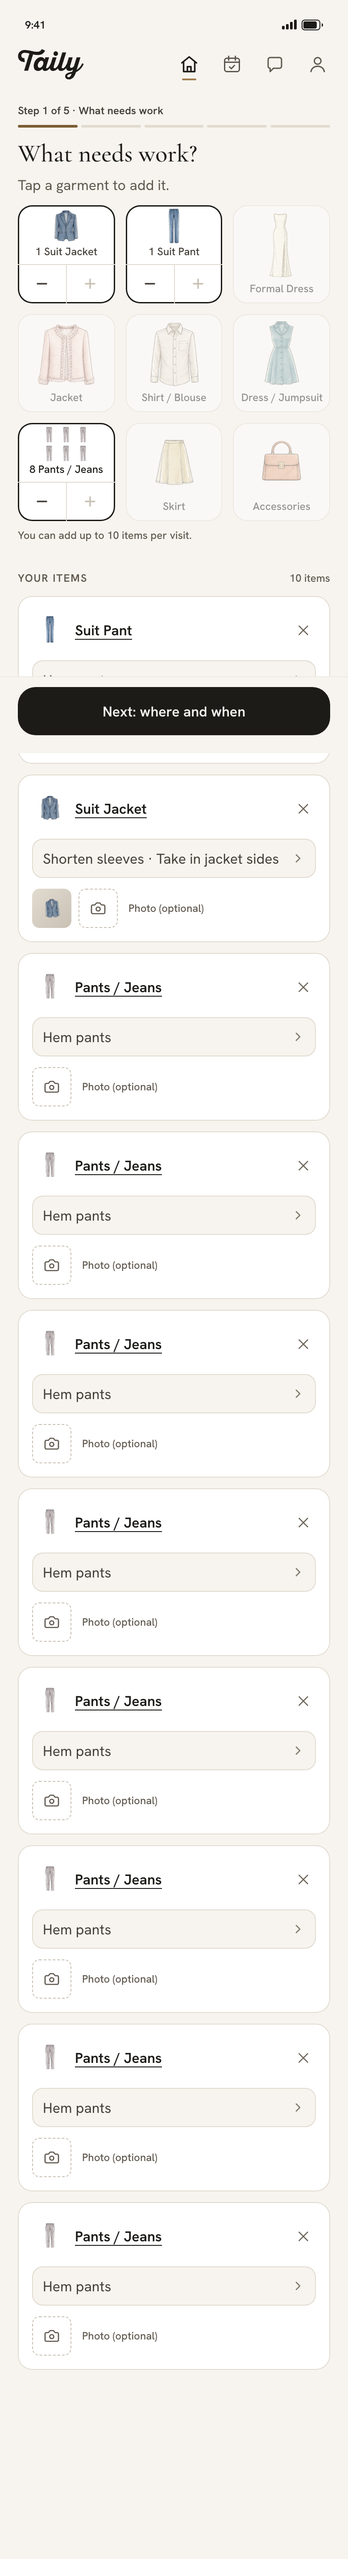
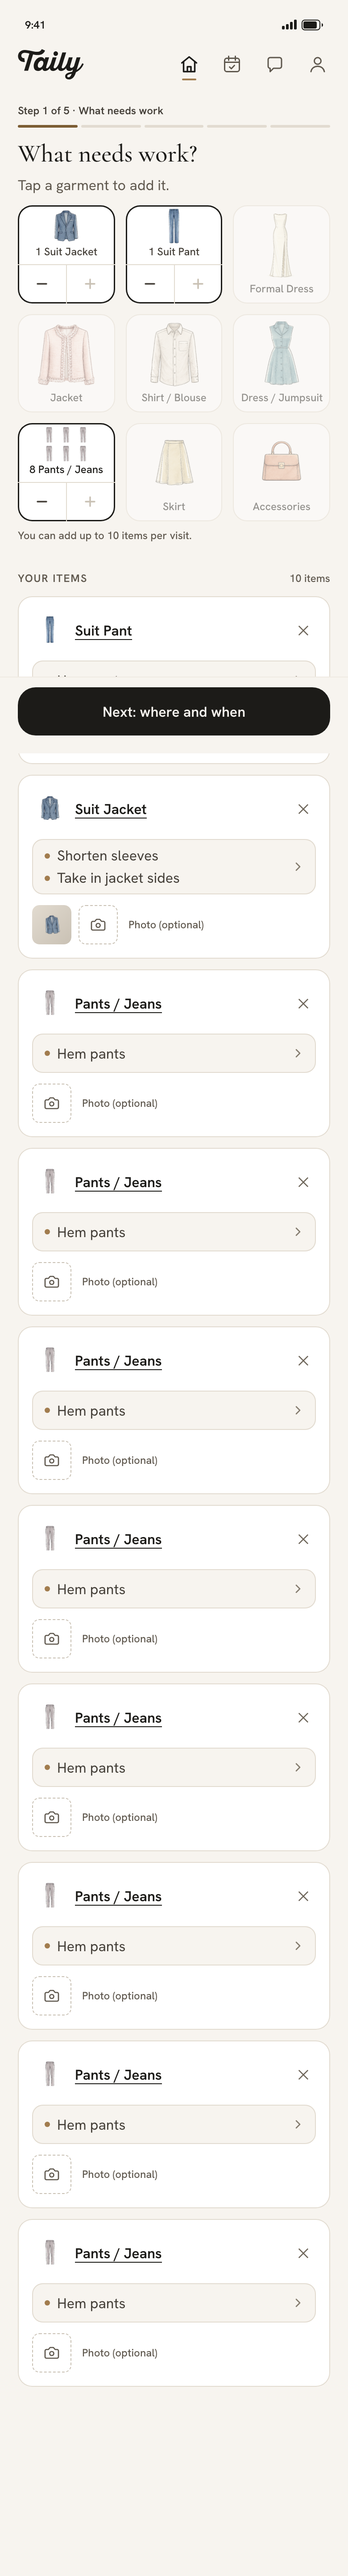
v5 K-26: Home item cards list every service — one per line, two columns from the fifth
c-job's services field shows each service after the K-25 cognac bullet (no "+n more"); 5+ services
flow into a two-column grid at the same 16 px (CSS :has, same markup). New flow c-job--five-services.
Visual baselines accepted: c-job, c-job--max, c-job--no-service, c-job--services, c-job--photo, sys-offline.
npm run check: ALL PASS.

diff --git a/js/screens/c-job.js b/js/screens/c-job.js
@@ -22,10 +22,11 @@ const MAX_PHOTOS = 3;   // per garment (D-42)
 /* ---------- typed / transient UI: which garments show the "choose a service" error ---------- */
 const ui = () => (state.ui[ID] ??= { errors: {} });
 
-/* two services: "A · B"; three or more: "A, B +n more" (M7 B: no long "·" chain) */
-const serviceText = (g) => {
+/* K-26 (H2): every service, one per line after a K-25 cognac bullet; from the 5th service the list flows into two columns
+   (CSS :has, same markup at every count). Spans, not a <ul>, because the list sits inside the field's <button>; sr-only commas read it as a list. */
+const serviceList = (g) => {
   const labels = g.services.map((id) => SERVICES[id]?.label).filter(Boolean);
-  return labels.length > 2 ? `${labels[0]}, ${labels[1]} +${labels.length - 2} more` : labels.join(' · ');
+  return `<span class="sr-only">Services: </span><span class="job-item__svcs">${labels.map((l, i) => `<span class="job-item__svc">${esc(l)}${i < labels.length - 1 ? '<span class="sr-only">, </span>' : ''}</span>`).join('')}</span>`;
 };
 
 function itemCard(g) {
@@ -39,7 +40,7 @@ function itemCard(g) {
   <div class="job-item__head">${garmentHead({ type: g.type, trailing: `<button type="button" class="job-item__remove" data-act="remove-garment" data-id="${g.id}" aria-label="Remove ${esc(g.type)}"><span aria-hidden="true">✕</span></button>` })}</div>
   <div class="job-item__task">
   <button type="button" class="job-item__services${hasErr ? ' job-item__services--error' : ''}" data-act="pick-services" data-id="${g.id}"${hasErr ? ` aria-invalid="true" aria-describedby="${errId}"` : ''}>
-    <span class="job-item__services-text t-body ${g.services.length ? 'c-700' : 'c-accent-ink'}">${g.services.length ? esc(serviceText(g)) : 'Choose what needs doing'}</span>
+    <span class="job-item__services-text t-body ${g.services.length ? 'c-700' : 'c-accent-ink'}">${g.services.length ? serviceList(g) : 'Choose what needs doing'}</span>
     ${CHEVRON_RIGHT.replace('method-row__chevron', 'job-item__chevron')}
   </button>
   ${hasErr ? `<p class="field__msg field__msg--error" id="${errId}" data-error="service" role="alert">Choose at least one service.</p>` : ''}

diff --git a/js/fixtures/m1.js b/js/fixtures/m1.js
@@ -9,6 +9,7 @@ import { fmt, fmtExact } from '../money.js';
 
 import * as A from '../account.js';
 import { nextOpening } from '../state.js';
+import { servicesForType } from '../data.js';
 import { draftAgain as CT_draftAgain } from './common.js';
 
 export const FLOWS_c_welcome = [
@@ -60,7 +61,11 @@ export const FLOWS_c_job = [
     expect: { has: ['What needs work', 'Tap a garment to add it'], sel: '[data-act="next"][aria-disabled="true"]' } },
   { key: 'c-job', screen: 'c-job', group: 'M1 · Booking', title: 'What needs work — Sarah’s items',
     note: 'Suit pant + suit jacket, services chosen',
-    expect: { has: ['Suit Pant', 'Suit Jacket', 'Hem pants', 'Shorten sleeves · Take in jacket sides', '2 items', 'Step 1 of 5'] } },
+    expect: { has: ['Suit Pant', 'Suit Jacket', 'Hem pants', 'Shorten sleeves', 'Take in jacket sides', '2 items', 'Step 1 of 5'], not: '+1 more', sel: '.job-item__svcs > .job-item__svc' } },
+  { key: 'c-job--five-services', screen: 'c-job', group: 'M1 · Booking', title: 'What needs work — five services on one item',
+    note: 'K-26 (H2): one service per line up to four; from the fifth the list flows into two columns at the same size',
+    setup: (S) => { S.T.newJob(); const r = S.T.addGarment('Suit Pant'); S.T.setServices(r.garment.id, servicesForType('Suit Pant').slice(0, 5)); },
+    expect: { has: ['Suit Pant', 'Hem pants', 'Taper legs', 'Replace zipper'], not: 'more', sel: '.job-item__svcs > .job-item__svc:nth-child(5)' } },
   { key: 'c-job--active', screen: 'c-job', group: 'M1 · Booking', title: 'Home — a booking in flight',
     note: 'Amara finished the order: its row leads (pill, balance, Pay now), the wizard waits under Book something else (D-168)',
     setup: (S) => { S.driveTo('ready'); },

diff --git a/index.html b/index.html
@@ -20,7 +20,7 @@
 "./js/dates.js": "./js/dates.js?v=2e2960b121",
 "./js/fixtures/common.js": "./js/fixtures/common.js?v=b77abfb4f5",
 "./js/fixtures/m0.js": "./js/fixtures/m0.js?v=965518bad8",
-"./js/fixtures/m1.js": "./js/fixtures/m1.js?v=cb9c491ce1",
+"./js/fixtures/m1.js": "./js/fixtures/m1.js?v=90e05e7f1a",
 "./js/fixtures/m2.js": "./js/fixtures/m2.js?v=268ac6f6a7",
 "./js/fixtures/m3.js": "./js/fixtures/m3.js?v=569beddf4b",
 "./js/fixtures/m4.js": "./js/fixtures/m4.js?v=66cb41e28a",
@@ -45,7 +45,7 @@
 "./js/screens/c-cards.js": "./js/screens/c-cards.js?v=f3af863142",
 "./js/screens/c-code.js": "./js/screens/c-code.js?v=732180794c",
 "./js/screens/c-complete.js": "./js/screens/c-complete.js?v=89be35c880",
-"./js/screens/c-job.js": "./js/screens/c-job.js?v=2138629af8",
+"./js/screens/c-job.js": "./js/screens/c-job.js?v=d9b21e641b",
 "./js/screens/c-messages.js": "./js/screens/c-messages.js?v=4019e157ca",
 "./js/screens/c-name.js": "./js/screens/c-name.js?v=5266bf68d9",
 "./js/screens/c-orders.js": "./js/screens/c-orders.js?v=8b123554ad",
@@ -109,7 +109,7 @@
 <link rel="stylesheet" href="css/screens/c-code.css?v=ed63b12347">
 <link rel="stylesheet" href="css/screens/c-name.css?v=8a3d99d9cb">
 <link rel="stylesheet" href="css/screens/c-thread.css?v=4cd38f7354">
-<link rel="stylesheet" href="css/screens/c-job.css?v=073c0aaa4a">
+<link rel="stylesheet" href="css/screens/c-job.css?v=9c894cd78a">
 <link rel="stylesheet" href="css/screens/c-where.css?v=be16430613">
 <link rel="stylesheet" href="css/screens/c-tailors.css?v=14630ca704">
 <link rel="stylesheet" href="css/screens/c-tailor.css?v=6614637332">

diff --git a/css/screens/c-job.css b/css/screens/c-job.css
@@ -27,6 +27,12 @@
 .job-item__services:active { background: var(--neutral-100); }
 .job-item__services--error { box-shadow: inset 0 0 0 1px var(--error); }
 .job-item__services-text { flex: 1 1 0; min-width: 0; }
+/* K-26 (H2): one service per line after the K-25 round cognac bullet; 5+ services flow into a strict two-column grid at the same 16 px,
+   a long name wrapping inside its column with the bullet hanging */
+.job-item__svcs { display: flex; flex-direction: column; gap: var(--space-4); min-width: 0; }
+.job-item__svc { display: block; position: relative; padding-left: var(--space-16); text-wrap: pretty; overflow-wrap: anywhere; }
+.job-item__svc::before { content: ''; position: absolute; left: var(--space-2); top: calc(0.5em * var(--lh-16) - var(--space-2) - 1px); width: calc(var(--space-4) + var(--space-2)); height: calc(var(--space-4) + var(--space-2)); border-radius: 50%; background: var(--accent-base); }
+.job-item__svcs:has(> .job-item__svc:nth-child(5)) { display: grid; grid-template-columns: repeat(2, minmax(0, 1fr)); gap: var(--space-4) var(--space-12); align-items: start; }
 .job-item__chevron { width: 16px; height: 16px; flex-shrink: 0; color: var(--neutral-500); }
 .job-item__task { display: flex; flex-direction: column; gap: var(--rhythm-tight); }   /* P2-1: the services field and its error are one sub-group with its own gap (was a -4 margin cancelling the card's 12) */
 

diff --git a/components.html b/components.html
@@ -34,7 +34,7 @@
 "./js/dates.js": "./js/dates.js?v=2e2960b121",
 "./js/fixtures/common.js": "./js/fixtures/common.js?v=b77abfb4f5",
 "./js/fixtures/m0.js": "./js/fixtures/m0.js?v=965518bad8",
-"./js/fixtures/m1.js": "./js/fixtures/m1.js?v=cb9c491ce1",
+"./js/fixtures/m1.js": "./js/fixtures/m1.js?v=90e05e7f1a",
 "./js/fixtures/m2.js": "./js/fixtures/m2.js?v=268ac6f6a7",
 "./js/fixtures/m3.js": "./js/fixtures/m3.js?v=569beddf4b",
 "./js/fixtures/m4.js": "./js/fixtures/m4.js?v=66cb41e28a",
@@ -59,7 +59,7 @@
 "./js/screens/c-cards.js": "./js/screens/c-cards.js?v=f3af863142",
 "./js/screens/c-code.js": "./js/screens/c-code.js?v=732180794c",
 "./js/screens/c-complete.js": "./js/screens/c-complete.js?v=89be35c880",
-"./js/screens/c-job.js": "./js/screens/c-job.js?v=2138629af8",
+"./js/screens/c-job.js": "./js/screens/c-job.js?v=d9b21e641b",
 "./js/screens/c-messages.js": "./js/screens/c-messages.js?v=4019e157ca",
 "./js/screens/c-name.js": "./js/screens/c-name.js?v=5266bf68d9",
 "./js/screens/c-orders.js": "./js/screens/c-orders.js?v=8b123554ad",

diff --git a/docs/v5/DECISIONS.md b/docs/v5/DECISIONS.md
@@ -352,3 +352,5 @@ Format: `- **D-##** (M#, role) DEFAULTED — <decision>. Why: <reason>. Overrule
 
 - **K-25** (Kevin, Oct 2026) LOCKED — **Garment services popover = P2** from https://claude.ai/artifact/Nghv4SHTrKovrGwfNN5X7p (scratchpad k33/): tapping a garment thumb opens a white card in the K-15 Verified popover shell (white, neutral-300 inset stroke, --shadow-float, radius 12, arrow on the thumb): head = 32 px thumb + garment name (16/600) + "N services" (12, neutral-600), hairline, then each service (16/400 neutral-700) after a small round cognac bullet (revised from a stitch dash, Kevin, Oct 2026). No prices. **Scope rule:** a garment picture in a well (garmentStrip — c-booking Visit block in every state, c-request "Your request") opens it per thumb; the t-home request / waiting card's count cluster ("2 items · 3 services") is ONE trigger listing every item (card moves to a stretched-link layout, no nested controls); a bare garment icon next to its name (garmentHead, tag rail, hang stage, Your order / The work, apptRow / threadRow / earnings rows, c-job picker) never opens it. Behaviour: thumb = 44 px button (aria-haspopup=dialog, aria-expanded, aria-controls), non-modal role=dialog shared with the Verified popover slot (one open at a time), tap toggles / another thumb moves it / outside tap or focus-out closes / Esc returns focus, flips above near the viewport bottom, clamps 12 px inside the column, max-width 280; closed thumb well gets a 1 px neutral-500 stroke, open thumb a 2 px ink ring; motion only under prefers-reduced-motion: no-preference.
 - **D-253** (K-25 build, garment popover) DEFAULTED — K-25 built (P2). Calls: (a) **One popover**: `anchorPopover(btn, html, { id, cls, label, aim })` + `closeAnchorPopover()` in components.js replace the K-15 Verified-only code; shell `.anchor-pop` (+ `.anchor-pop__arrow`) with two skins, `.verified-pop` (unchanged look) and `.garment-pop`; one slot (`activePop`), so opening either closes the other; `closeOverlay()` closes it. `openVerifiedPopover`, `closeVerifiedPopover`, `wireVerified` stay as names (the last two are aliases); app.js now calls `wirePopovers(el)`, which delegates `[data-verified]` and `[data-peek]`. A peek trigger carries its items as JSON in `data-peek` (`peekAttrs(items, label)`), the dialog name in `data-peek-label`; ids are `verified-pop` / `garment-pop` (each trigger's aria-controls). (b) A second tap now also puts focus back on the trigger (K-15 left it where the click put it; same in Chrome, fixes Safari). The Verified fade now runs only under prefers-reduced-motion: no-preference and never under `html.is-test` (it ran unless reduce); c-booking--verified-open's diff equals c-booking's thumb-stroke diff (1697 px), the popover itself 0 px. (c) **Strip**: `garmentStrip(items)` takes `{ type, services }` from `returnedItems(a)` (the approved lines once they exist) on c-booking (every state that shows the Visit block: confirmed, rescheduled, fitting, cancelled, cancelled late, can't make it, no-show) and c-request (every state). Thumb label "Suit Jacket: show services"; "+N" = "N more items: show services", listing only the hidden items under the dialog name "N more items". Bare type strings still render (no services). (d) **Card**: min width 160, max 280 (column − 24 at 320); several items scroll past 320 px (8 × 40) and the list then becomes a focusable `role="region"` "…, scroll for more"; dialog names = the garment / "Sarah’s order" / "2 more items". The stitch dash sits at half a line − 1 px (crisp at 2×). (e) **t-home card**: `<div class="request-card card">` + `.request-card__link` (an empty button over the whole card, z 1, carrying `data-act` / `data-id` and the card's old aria-label); the strip, header and time are aria-hidden (the link says it, as the old card button did); the cluster is `<button class="request-card__count peek-cluster">` (z 2, ::before pad to 44 px, label "2 items, 3 services: show what’s in the order"), count underlined neutral-500, 2 px ink when open; the press scale moved to `.request-card:has(> .request-card__link:active)`. Applies to the New requests and Waiting on Sarah cards; the gallery card passes items too. (f) Hover (hover-capable only): thumb stroke ink, cluster underline ink; the thumb press scale is motion-safe and off under test. (g) **Tests**: flows `c-booking--item-peek` (Suit Jacket), `c-request--item-peek` (Suit Pant · 1 service · Hem pants), `t-home--item-peek` (both items), inventory kind `overlay`, SCREENS.md; the flow runner has no key step, so toggle / move / Escape-returns-focus / outside tap / flip above / 12 px clamp / one slot with Verified / the card still opens t-request are journey **J14**. Re-baselined (thumb stroke + 12 gap, count underline, index / gallery): c-request (+ --withdraw, --soon, --suggested, --declined, --expired, --expired-2, --expired-final, --expired-passed, --suggested-passed), c-booking (+ --confirmed, --verified-open, --cancelled, --cancelled-late, --cant-make-it, --no-show, --fitting), t-home (+ --push-denied, --push, --no-requests, --no-upcoming, --soon, --suggested, --suggested-soon, --paused, --retried), sys-offline-tailor, sys-index, sys-components. Why: K-25 leaves the plumbing to the build. Overrule: `garmentStrip` back to bare types (drop `peekAttrs`), `requestCard` back to one `<button>` from git history.
+
+- **K-26** (Kevin, Oct 2026) LOCKED — **c-job item card services = H2** from https://claude.ai/artifact/4WGUuZAu9jmVxLYKKGC9qS (scratchpad k38/): the field lists EVERY service (no "+n more"), one per line after the K-25 round cognac bullet at 16/400 neutral-700; from the 5th service the list becomes a strict two-column grid at the same 16 px (a long name wraps inside its column, bullet hanging). Switch is CSS-only (`.job-item__svcs:has(> .job-item__svc:nth-child(5))`), same markup at every count. The whole field stays the one button opening the services sheet; empty / error states unchanged. Flow `c-job--five-services`.
